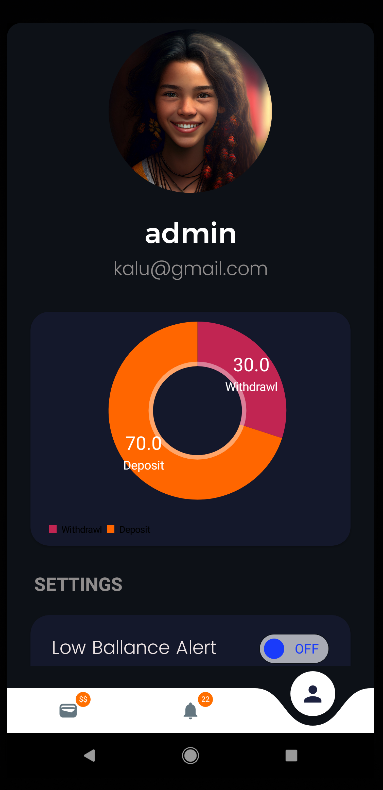
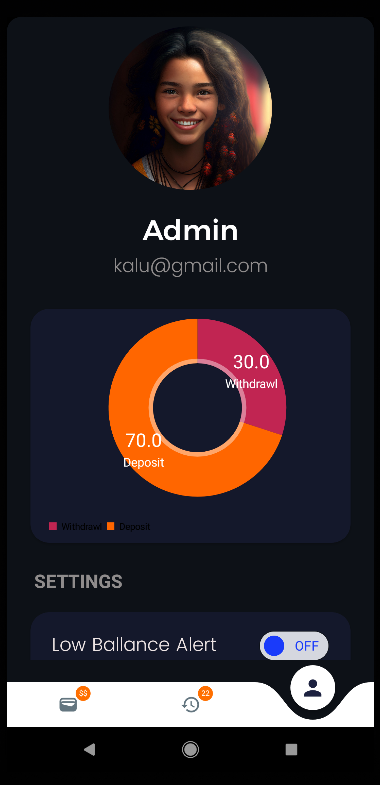
docs: updated the screenshot and project info

diff --git a/app/src/main/java/com/safespend/cashsentry/ui/ProfileFragment.kt b/app/src/main/java/com/safespend/cashsentry/ui/ProfileFragment.kt
@@ -39,19 +39,7 @@ class ProfileFragment : Fragment() {
             ProfileViewModel::class.java)
         pieChart = binding.pieChart
 
-        viewLifecycleOwner.lifecycleScope.launch {
-            profileViewModel.adminProfile.collect{state ->
-                if (state.isLoading) {
-                    Log.i("UI load", "lol")
-                }else if(state.error.isNotEmpty()){
-                    Log.i("UI error", "lol")
-                }else if(state.userProfile != null){
-                    binding.
-                    etUserEmail.text = state.userProfile.email
-                    binding.etUserName.text = state.userProfile.name
-                }
-            }
-        }
+        showProfileDetails()
         showPieChartResult()
         return binding.root
     }
@@ -78,6 +66,22 @@ class ProfileFragment : Fragment() {
         pieChart.setEntryLabelColor(Color.WHITE)
         pieChart.animateY(2000)
 
+    }
+
+    private fun showProfileDetails(){
+        viewLifecycleOwner.lifecycleScope.launch {
+            profileViewModel.adminProfile.collect{state ->
+                if (state.isLoading) {
+                    Log.i("UI load", "lol")
+                }else if(state.error.isNotEmpty()){
+                    Log.i("UI error", "lol")
+                }else if(state.userProfile != null){
+                    binding.
+                    etUserEmail.text = state.userProfile.email
+                    binding.etUserName.text = state.userProfile.name
+                }
+            }
+        }
     }
 
 }

diff --git a/README.md b/README.md
@@ -22,6 +22,11 @@ CashPI🚀: Empower your financial journey with seamless expense tracking and de
 </td>
 <td>
 <p align="center">
+	<img src="./assets/history_screenshot.png" alt="homescreen" height="auto">
+</p>
+</td>
+<td>
+<p align="center">
 	<img src="./assets/profile_screenshot.png" alt="homescreen" height="auto">
 </p>
 </td>
